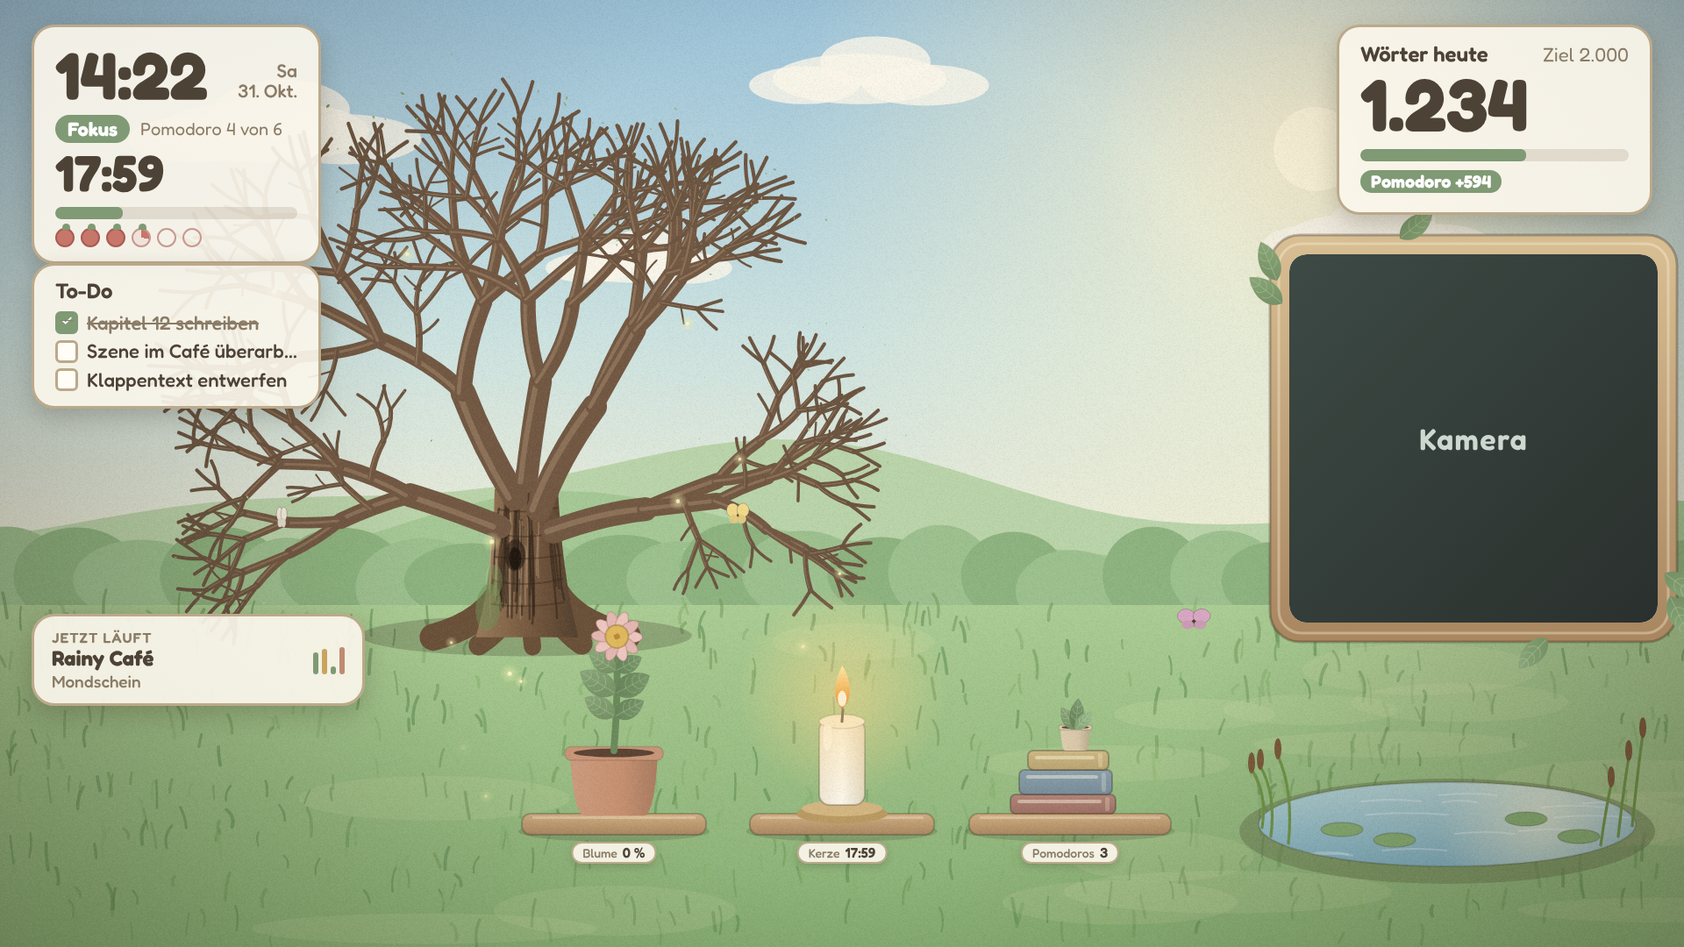
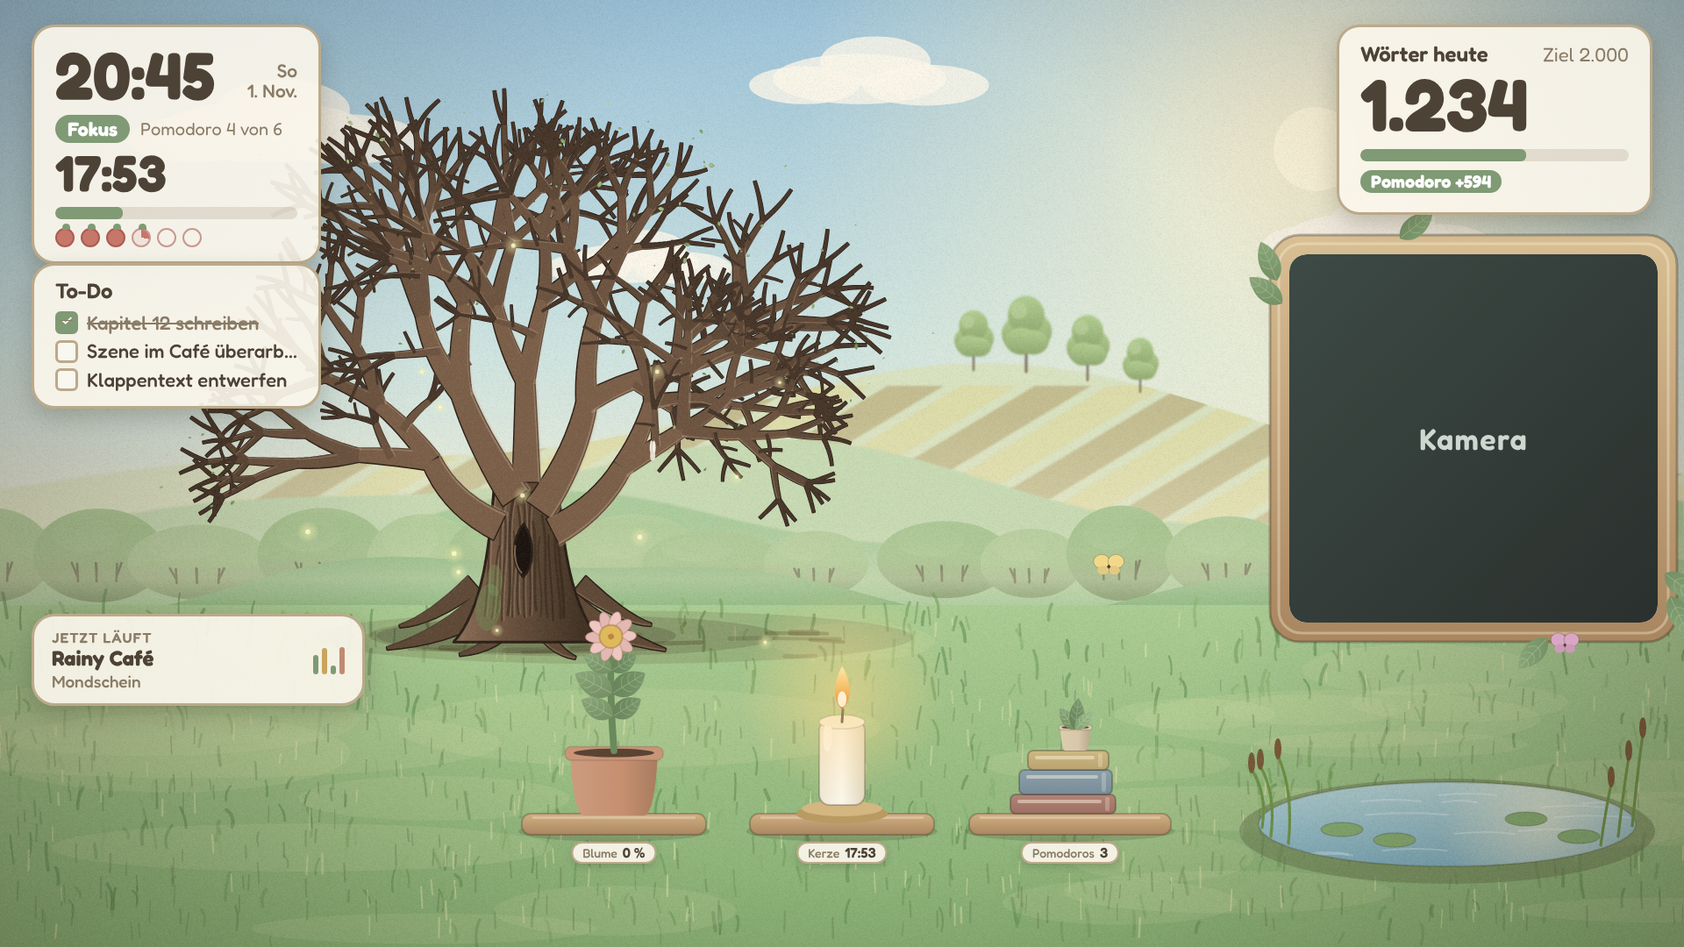
v1.6.0: Landschaft und Baum im illustrierten Stil nach Vorlage
Konturen, große Laubbüschel, gepflügte Felder, Büsche, Dunst, Gras.

Claude-Session: https://claude.ai/code/session_01DH9G6EkHwgJhCD2sJyVDDF

diff --git a/docs/vorschau.html b/docs/vorschau.html
@@ -889,6 +889,34 @@ const PAL = {
   winter: { hills: ['#c9d2c8', '#b9c3bb', '#a8b3ac'], far: ['#8a9a90', '#7b8c84'], ground: ['#a3a891', '#8c917b'], blades: ['#9aa07f', '#8a9070', '#a8ad90'], tree: ['#e8eef2', '#dde5ea', '#f2f5f7', '#cfd9df'] },
 };
 
+// ---- Hügel, Felder, Büsche und ferne Bäume (Stil: weich, warm, mit Dunst in der Ferne)
+const hillShape = (y, seed, wave, amp) => (k) => { const r = rng(seed); const ph = [r() * 6, r() * 6]; k.moveTo(0, H); k.lineTo(0, y); for (let x = 0; x <= W; x += 40) k.lineTo(x, y + Math.sin(x / wave + ph[0]) * amp + Math.sin(x / (wave * 0.45) + ph[1]) * amp * 0.4); k.lineTo(W, H); k.closePath(); };
+const hillYAt = (y, seed, wave, amp) => { const r = rng(seed); const ph = [r() * 6, r() * 6]; return (x) => y + Math.sin(x / wave + ph[0]) * amp + Math.sin(x / (wave * 0.45) + ph[1]) * amp * 0.4; };
+// Gepflügte Felder: schräge Streifen in zwei warmen Tönen, in den Hügel geschnitten
+function felder(c, P, shape, dunst) {
+  c.save(); c.beginPath(); shape(c); c.clip();
+  const cols = [mixc(P.hills[0], '#f6d890', 0.5), mixc(P.hills[0], '#b07a40', 0.45)];
+  for (let i = -3; i < 22; i += 1) { const x0 = 760 + i * 84; c.fillStyle = alpha(mixc(cols[i & 1], dunst, 0.15), 0.85); c.beginPath(); c.moveTo(x0, 440); c.lineTo(x0 + 64, 440); c.lineTo(x0 + 64 - 300, 620); c.lineTo(x0 - 300, 620); c.closePath(); c.fill(); }
+  c.restore();
+}
+// Runder Busch: oben hell, unten dunkel, im unteren Teil sieht man dünne Zweige
+function busch(c, x, y, rx, ry, col, snow, season) {
+  const dark = shade(col, -0.2), light = shade(col, 0.16);
+  ell(c, x, y - ry * 0.5, rx, ry, lg(c, 0, y - ry * 1.5, 0, y + ry * 0.4, [[0, light], [0.5, col], [1, dark]]));
+  ell(c, x - rx * 0.22, y - ry * 0.95, rx * 0.5, ry * 0.38, alpha(light, 0.45));
+  c.strokeStyle = alpha('#3d2b20', 0.5); c.lineWidth = 2.6; c.lineCap = 'round';
+  for (const dx of [-0.32, -0.04, 0.26]) { c.beginPath(); c.moveTo(x + dx * rx, y + ry * 0.05); c.lineTo(x + dx * rx * 1.04, y - ry * 0.32); c.moveTo(x + dx * rx * 1.03, y - ry * 0.06); c.lineTo(x + dx * rx * 1.3, y - ry * 0.34); c.stroke(); }
+  if (snow > 0.05 && season === 'winter') ell(c, x, y - ry * 1.3, rx * 0.8, ry * 0.26, alpha('#ffffff', 0.9 * snow));
+}
+// Ferner Baum: runde Krone mit hellem Licht oben, dunkler Stamm mit Gabel
+function fernerBaum(c, x, y, s, col, kahl) {
+  c.strokeStyle = alpha('#4a3526', 0.7); c.lineWidth = 4 * s; c.lineCap = 'round';
+  c.beginPath(); c.moveTo(x, y); c.lineTo(x, y - 52 * s); c.moveTo(x, y - 30 * s); c.lineTo(x - 14 * s, y - 52 * s); c.moveTo(x, y - 34 * s); c.lineTo(x + 14 * s, y - 56 * s); c.stroke();
+  if (kahl) return;
+  for (const [dx, dy, rx2, ry2] of [[-16, -62, 24, 26], [16, -66, 26, 28], [0, -92, 30, 32], [-8, -50, 26, 22], [12, -48, 24, 20]]) ell(c, x + dx * s, y + dy * s, rx2 * s, ry2 * s, lg(c, 0, y + (dy - ry2) * s, 0, y + (dy + ry2) * s, [[0, shade(col, 0.14)], [1, shade(col, -0.18)]]));
+  ell(c, x - 12 * s, y - 100 * s, 14 * s, 14 * s, alpha(shade(col, 0.3), 0.55));
+}
+
 // ---- Himmel, Hügel, Boden (ändern sich nur mit Jahreszeit, Tageszeit und Schnee)
 function paintBackground(c, season, zeit, snow) {
   const S = SKY[zeit], P = PAL[season];
@@ -905,10 +933,24 @@ function paintBackground(c, season, zeit, snow) {
   const cl = (x, y, s) => { for (const [dx, dy, rx, ry] of [[0, 0, 110, 32], [-70, 8, 70, 24], [84, 8, 80, 26], [20, -22, 70, 32]]) ell(c, x + dx * s, y + dy * s, rx * s, ry * s, alpha(S.cloud, zeit === 'abend' ? 0.55 : 0.8)); };
   cl(300, 150, 1.1); cl(980, 90, 0.9); cl(1560, 270, 0.85); cl(720, 300, 0.7);
   const snowC = (h) => (snow ? mixc(h, '#f4f7fa', snow * 0.88) : h);
-  const hillPath = (y, seed, wave, amp, col) => { const r = rng(seed); const ph = [r() * 6, r() * 6]; path(c, (k) => { k.moveTo(0, H); k.lineTo(0, y); for (let x = 0; x <= W; x += 40) k.lineTo(x, y + Math.sin(x / wave + ph[0]) * amp + Math.sin(x / (wave * 0.45) + ph[1]) * amp * 0.4); k.lineTo(W, H); k.closePath(); }, col); };
-  hillPath(560, 2, 250, 44, snowC(P.hills[0])); hillPath(612, 5, 210, 38, snowC(P.hills[1])); hillPath(664, 8, 180, 30, snowC(P.hills[2]));
+  const hillPath = (y, seed, wave, amp, col) => path(c, hillShape(y, seed, wave, amp), col);
+  const dunst = mixc(S.hor, '#fff0dc', 0.4); // Dunst in der Ferne: Dinge dort sind heller, blasser und weich
+  const hinten = (col, k) => snowC(mixc(col, dunst, k));
+  c.save(); c.filter = 'blur(1.2px)';
+  const ferne = hillShape(500, 14, 330, 62), ferneY = hillYAt(500, 14, 330, 62);
+  path(c, ferne, hinten(P.hills[0], 0.5));
+  if (season !== 'winter') felder(c, P, ferne, dunst);
+  for (const [bx, sc2] of [[1110, 0.55], [1170, 0.7], [1240, 0.6], [1300, 0.5], [1560, 0.7], [1640, 0.85], [1720, 0.7], [1810, 0.8]]) fernerBaum(c, bx, ferneY(bx) + 8, sc2, hinten(season === 'herbst' ? P.tree[1] : P.tree[0], 0.12), season === 'winter');
+  c.restore();
+  c.fillStyle = lg(c, 0, 470, 0, 640, [[0, alpha(dunst, 0)], [1, alpha(dunst, 0.34)]]); c.fillRect(0, 470, W, 170); // Dunstband über der Ferne
+  c.save(); c.filter = 'blur(0.8px)';
+  hillPath(560, 2, 250, 44, hinten(P.hills[0], 0.22)); hillPath(612, 5, 210, 38, hinten(P.hills[1], 0.1));
+  c.restore();
+  // Reihe runder Büsche mit Zweigen
   const r2 = rng(33);
-  for (let i = 0; i < 26; i += 1) ell(c, i * 76 + r2() * 30, 650 + r2() * 24, 56 + r2() * 28, 40 + r2() * 18, snowC(P.far[i % 2]));
+  for (let i = 0; i < 17; i += 1) busch(c, i * 118 + r2() * 40 - 20, 656 + r2() * 14, 56 + r2() * 34, 36 + r2() * 20, hinten(mixc(P.far[i % 2], P.tree[1], 0.32), 0.08), snow, season);
+  hillPath(664, 8, 180, 30, snowC(P.hills[2]));
+  c.fillStyle = lg(c, 0, 600, 0, 700, [[0, alpha(dunst, 0)], [0.6, alpha(dunst, 0.3)], [1, alpha(dunst, 0)]]); c.fillRect(0, 600, W, 100); // Dunst zwischen Büschen und Wiese
   const g0 = season === 'winter' ? mixc(P.ground[0], '#f1f5f8', snow * 0.96) : P.ground[0];
   const g1 = season === 'winter' ? mixc(P.ground[1], '#dfe7ee', snow * 0.96) : P.ground[1];
   c.fillStyle = lg(c, 0, 690, 0, H, [[0, g0], [1, g1]]); c.fillRect(0, 690, W, H - 690);
@@ -916,6 +958,16 @@ function paintBackground(c, season, zeit, snow) {
   if (strokes > 0) grassStrokes(c, 0, 700, W, H, strokes, 17, P.blades);
   const r3 = rng(41);
   for (let i = 0; i < 18; i += 1) ell(c, r3() * W, 720 + r3() * 340, 90 + r3() * 120, 14 + r3() * 18, alpha(season === 'winter' ? '#ffffff' : '#fff3c8', 0.1));
+  if (season !== 'winter') {
+    // große, sanfte helle Flecken wie gemähte Stellen, und viele kurze Grashalme (hell und dunkel) als Strichstruktur
+    for (let i = 0; i < 7; i += 1) ell(c, 150 + r3() * (W - 300), 760 + r3() * 280, 160 + r3() * 220, 22 + r3() * 26, alpha(mixc(g0, '#fff0c0', 0.55), 0.17));
+    c.lineCap = 'round';
+    for (let i = 0; i < 520; i += 1) {
+      const gx = r3() * W, gy = 710 + Math.pow(r3(), 0.8) * 360, gh = 6 + r3() * 12 + (gy - 700) * 0.02, hell = r3() < 0.4;
+      c.strokeStyle = alpha(hell ? mixc(g0, '#fff2b8', 0.7) : mixc(g1, '#2e2012', 0.45), hell ? 0.45 : 0.3); c.lineWidth = 1.3 + r3() * 1.2;
+      c.beginPath(); c.moveTo(gx, gy); c.lineTo(gx + (r3() - 0.5) * 3, gy - gh); c.stroke();
+    }
+  }
   paintTeich(c, season, zeit, S, snow);
 }
 
@@ -1058,7 +1110,7 @@ const DRAW = { daisy, tulip, bell, sunflower, lavender, poppy, cornflower, aster
 const MIX = {
   fruehling: ['tuft', 'tuft', 'daisy', 'daisy', 'tulip', 'tulip', 'bell', 'tuft', 'daisy'],
   sommer: ['tuft', 'sunflower', 'sunflower', 'lavender', 'lavender', 'poppy', 'cornflower', 'tuft', 'poppy'],
-  herbst: ['tuft', 'aster', 'aster', 'pumpkin', 'pilze', 'pilze', 'pilze', 'frond', 'pilze', 'aster', 'pilze'],
+  herbst: ['tuft', 'tuft', 'aster', 'aster', 'pumpkin', 'pilze', 'frond', 'tuft', 'aster', 'pilze', 'tuft'],
   winter: ['shrub', 'tuft', 'shrub', 'tuft', 'tuft'],
 };
 const slotCache = new Map();
@@ -1088,9 +1140,9 @@ function treeModel(seed) {
   if (treeModels.has(seed)) return treeModels.get(seed);
   const r = rng(seed), segs = [], tips = [];
   const grow = (x, y, ang, len, w, depth) => {
-    const bend = (r() - 0.5) * 0.5, a2 = ang + bend;
+    const bend = depth === 1 ? (ang < -0.7 ? 0.36 : ang > 0.7 ? -0.36 : (r() - 0.5) * 0.3) * (0.75 + r() * 0.35) : (r() - 0.5) * 0.5, a2 = ang + bend;
     const x1 = x + Math.sin(a2) * len, y1 = y - Math.cos(a2) * len;
-    const cx = x + Math.sin(ang + bend * 0.3) * len * 0.5 + (r() - 0.5) * len * 0.18, cy = y - Math.cos(ang + bend * 0.3) * len * 0.5;
+    const cx = x + Math.sin(ang + bend * (depth === 1 ? 0.1 : 0.3)) * len * 0.5 + (r() - 0.5) * len * 0.18, cy = y - Math.cos(ang + bend * (depth === 1 ? 0.1 : 0.3)) * len * 0.5;
     const w1 = w * 0.68;
     segs.push([x, y, cx, cy, x1, y1, w, w1, depth]);
     if (depth >= 6) { tips.push([x1, y1, a2]); return; }
@@ -1106,15 +1158,15 @@ function treeModel(seed) {
   const xs = tips.map((q) => q[0]), ys = tips.map((q) => q[1]);
   const minX = Math.min(...xs), maxX = Math.max(...xs), minY = Math.min(...ys), maxY = Math.max(...ys);
   const ccx = (minX + maxX) / 2, ccy = minY + (maxY - minY) * 0.36, crx = (maxX - minX) * 0.43, cry = (maxY - minY) * 0.4;
-  for (let i = 0; i < 1300; i += 1) {
+  for (let i = 0; i < 760; i += 1) {
     const a = r() * TAU, rad = Math.sqrt(r()), x = ccx + Math.cos(a) * crx * rad, y = ccy + Math.sin(a) * cry * rad;
     if (y > -190) continue; // der Stammansatz und die untersten Äste bleiben sichtbar
-    leaves.push({ x, y, size: 17 + r() * 11, rot: r() * TAU, tone: r(), th: r(), lobed: r() < 0.75, acorn: false, katze: false });
+    leaves.push({ x, y, size: 24 + r() * 13, rot: r() * TAU, tone: r(), th: r(), lobed: r() < 0.3, acorn: false, katze: false });
   }
   for (const [tx, ty, ang] of tips) {
-    for (let i = 0; i < 15; i += 1) {
+    for (let i = 0; i < 8; i += 1) {
       const rad = 10 + r() * 50, a = r() * TAU;
-      leaves.push({ x: tx + Math.cos(a) * rad * 1.2 + Math.sin(ang) * 16, y: ty + Math.sin(a) * rad * 0.9 - 10, size: 17 + r() * 11, rot: r() * TAU, tone: r(), th: r(), lobed: r() < 0.75, acorn: r() < 0.05, katze: r() < 0.08 });
+      leaves.push({ x: tx + Math.cos(a) * rad * 1.2 + Math.sin(ang) * 16, y: ty + Math.sin(a) * rad * 0.9 - 10, size: 24 + r() * 13, rot: r() * TAU, tone: r(), th: r(), lobed: r() < 0.3, acorn: r() < 0.05, katze: r() < 0.08 });
     }
   }
   leaves.sort((a, b) => a.y - b.y);
@@ -1135,65 +1187,81 @@ function eichenblatt(c, x, y, size, rot, col) {
   c.strokeStyle = alpha(shade(col, 0.3), 0.5); c.lineWidth = 1.2; c.beginPath(); c.moveTo(0, -size * 0.04); c.lineTo(0, -size * 0.9); c.stroke();
   c.restore();
 }
+// Ein verjüngtes, gebogenes Band (Ast oder Wurzel) von Breite w0 nach w1: liefert linke und rechte Randpunkte
+function bandPunkte(x0, y0, cx, cy, x1, y1, w0, w1, N = 9) {
+  const L = [], R = [];
+  for (let i = 0; i <= N; i += 1) {
+    const u = i / N, bx = (1 - u) * (1 - u) * x0 + 2 * (1 - u) * u * cx + u * u * x1, by = (1 - u) * (1 - u) * y0 + 2 * (1 - u) * u * cy + u * u * y1;
+    let tx = 2 * (1 - u) * (cx - x0) + 2 * u * (x1 - cx), ty = 2 * (1 - u) * (cy - y0) + 2 * u * (y1 - cy); const tl = Math.hypot(tx, ty) || 1; tx /= tl; ty /= tl;
+    const hw = (w0 + (w1 - w0) * u) / 2;
+    L.push([bx - ty * hw, by + tx * hw]); R.push([bx + ty * hw, by - tx * hw]);
+  }
+  return { L, R };
+}
+const bandPfad = ({ L, R }) => (k) => { k.moveTo(L[0][0], L[0][1]); for (const q of L) k.lineTo(q[0], q[1]); for (const q of [...R].reverse()) k.lineTo(q[0], q[1]); k.closePath(); };
+
 function drawTree(c, x, y, s, { leafAmt, tones, season, p, snow = 0 }) {
   const { segs, tips, leaves, crown } = treeModel(9);
+  const TINTE = '#2b2018'; // dünne dunkle Konturlinie wie in einer Illustration
   c.save(); c.translate(x, y); c.scale(s, s);
-  // weicher Schatten am Boden: breit nach rechts, wie von der Sonne links oben
-  ell(c, 110, 12, 380, 34, alpha('#4a3018', 0.14)); ell(c, 60, 10, 260, 26, alpha('#3a2410', 0.16)); ell(c, 0, 10, 190, 22, alpha('#2b2118', 0.22));
+  // weicher Schatten am Boden (von links oben beleuchtet, daher nach rechts) mit ein paar Pinselstrichen am Rand
+  ell(c, 110, 12, 380, 34, alpha('#4a3018', 0.14)); ell(c, 60, 10, 260, 26, alpha('#3a2410', 0.16)); ell(c, 0, 10, 190, 22, alpha('#2b2118', 0.2));
   c.lineCap = 'round'; c.lineJoin = 'round';
-  // Wurzelanläufe
-  for (const [dx, wx, wy, w] of [[-44, -118, 12, 34], [-14, -60, 22, 26], [30, 70, 20, 28], [50, 128, 10, 34], [4, 8, 24, 22]]) { c.strokeStyle = '#6a5038'; c.lineWidth = w; c.beginPath(); c.moveTo(dx * 0.6, -60); c.quadraticCurveTo(dx, -8, wx, wy); c.stroke(); }
-  // mächtiger Stamm: breiter Fuß, links hell (Sonne), rechts dunkel
-  path(c, (k) => { k.moveTo(-70, 14); k.bezierCurveTo(-48, -40, -44, -110, -41, -178); k.lineTo(41, -178); k.bezierCurveTo(45, -110, 52, -40, 72, 14); k.closePath(); }, lg(c, -70, 0, 72, 0, [[0, '#7d6552'], [0.3, '#63503f'], [0.62, '#4a3a2f'], [1, '#31271f']]));
+  const rs = rng(5);
+  for (let i = 0; i < 16; i += 1) { const sx = -150 + rs() * 520, sy = 4 + rs() * 34; c.strokeStyle = alpha('#3a2410', 0.16 + rs() * 0.1); c.lineWidth = 3 + rs() * 5; c.beginPath(); c.moveTo(sx, sy); c.lineTo(sx + 30 + rs() * 60, sy + (rs() - 0.5) * 6); c.stroke(); }
+  // Wurzeln: verjüngte Bänder mit Kontur, vom Stamm weg über den Boden
+  const wurzeln = [[-50, -30, -104, 12, -176, 26, 38], [-18, -14, -36, 24, -84, 34, 26], [14, -14, 30, 28, 62, 38, 24], [50, -30, 108, 10, 176, 28, 38], [-66, -56, -120, -10, -160, -2, 24], [68, -56, 124, -10, 158, -4, 24]];
+  const wBand = wurzeln.map(([x0, y0, cx, cy, x1, y1, w]) => bandPunkte(x0, y0, cx, cy, x1, y1, w, 3, 8));
+  for (const b of wBand) path(c, bandPfad(b), TINTE, TINTE, 3.4);
+  for (const b of wBand) { path(c, bandPfad(b), '#5f4937'); c.strokeStyle = alpha('#d6bb9c', 0.22); c.lineWidth = 2; c.beginPath(); b.L.forEach((q, i) => (i ? c.lineTo(q[0], q[1] - 1) : c.moveTo(q[0], q[1] - 1))); c.stroke(); }
+  // mächtiger Stamm: Kontur, links hell (Sonne), rechts dunkel
+  path(c, (k) => { k.moveTo(-92, 18); k.bezierCurveTo(-54, -24, -46, -110, -41, -176); k.quadraticCurveTo(0, -200, 41, -176); k.bezierCurveTo(46, -110, 56, -24, 96, 18); k.closePath(); }, lg(c, -92, 0, 96, 0, [[0, '#8c6f59'], [0.32, '#6f5541'], [0.64, '#53412f'], [1, '#372a1f']]), TINTE, 3.4);
   const rb = rng(3);
-  // Rindenfurchen: lange, leicht geschwungene Linien entlang des Stammes (dunkel) und Lichtkanten (hell, links)
+  // Rindenfurchen: lange, leicht geschwungene Linien (dunkel) und Lichtkanten (hell, links)
   for (let i = 0; i < 15; i += 1) {
-    const u = (i + rb() * 0.6) / 15, px = -56 + u * 112, y0 = -2 - rb() * 24, len = 90 + rb() * 70, sway = (rb() - 0.5) * 14, w = 1.8 + rb() * 2.2;
-    c.strokeStyle = alpha('#2a1f18', 0.32 + rb() * 0.22); c.lineWidth = w; c.beginPath(); c.moveTo(px * 0.96, y0); c.bezierCurveTo(px * 0.9 + sway, y0 - len * 0.35, px * 0.84 - sway, y0 - len * 0.7, px * 0.78 + sway * 0.4, y0 - len); c.stroke();
-    if (u < 0.55) { c.strokeStyle = alpha('#d9c0a2', 0.22); c.lineWidth = 1.6; c.beginPath(); c.moveTo(px * 0.96 + 3, y0); c.bezierCurveTo(px * 0.9 + sway + 3, y0 - len * 0.35, px * 0.84 - sway + 3, y0 - len * 0.7, px * 0.78 + sway * 0.4 + 3, y0 - len); c.stroke(); }
+    const u = (i + rb() * 0.6) / 15, px = -56 + u * 112, y0 = -2 - rb() * 24, len = 90 + rb() * 70, sway = (rb() - 0.5) * 14, w = 1.6 + rb() * 2;
+    c.strokeStyle = alpha(TINTE, 0.34 + rb() * 0.22); c.lineWidth = w; c.beginPath(); c.moveTo(px * 0.96, y0); c.bezierCurveTo(px * 0.9 + sway, y0 - len * 0.35, px * 0.84 - sway, y0 - len * 0.7, px * 0.78 + sway * 0.4, y0 - len); c.stroke();
+    if (u < 0.55) { c.strokeStyle = alpha('#dcc3a4', 0.22); c.lineWidth = 1.6; c.beginPath(); c.moveTo(px * 0.96 + 3, y0); c.bezierCurveTo(px * 0.9 + sway + 3, y0 - len * 0.35, px * 0.84 - sway + 3, y0 - len * 0.7, px * 0.78 + sway * 0.4 + 3, y0 - len); c.stroke(); }
   }
-  // Astloch: klein und senkrecht, mit hellem Rand oben links
-  ell(c, -4, -92, 9.5, 17, '#241a14'); ell(c, -4, -88, 6, 12, '#120c09'); c.strokeStyle = alpha('#c9ad8c', 0.5); c.lineWidth = 2; c.beginPath(); c.ellipse(-4, -92, 10.5, 18, 0, Math.PI * 0.55, Math.PI * 1.3); c.stroke();
-  if (season !== 'winter') { ell(c, -48, -26, 16, 30, alpha('#6f8f55', 0.5), null, 0, 0.1); ell(c, -40, -60, 10, 20, alpha('#7f9d62', 0.4)); } // Moos auf der Wetterseite
+  // Astloch: länglich wie ein Tropfen, dunkel mit Kontur und hellem Rand
+  const loch = (k) => { k.moveTo(-3, -132); k.bezierCurveTo(-20, -112, -18, -80, -4, -64); k.bezierCurveTo(10, -78, 12, -108, -3, -132); k.closePath(); };
+  path(c, loch, '#1c140f', TINTE, 3); c.strokeStyle = alpha('#c9ad8c', 0.5); c.lineWidth = 2; c.beginPath(); c.moveTo(-14, -104); c.bezierCurveTo(-16, -90, -12, -76, -6, -70); c.stroke();
+  if (season !== 'winter') { ell(c, -48, -26, 16, 30, alpha('#6f8f55', 0.45), null, 0, 0.1); ell(c, -40, -60, 10, 20, alpha('#7f9d62', 0.35)); } // Moos auf der Wetterseite
   if (snow > 0.05) for (const [dx, dy, w] of [[-38, 8, 40], [42, 10, 44]]) ell(c, dx, dy, w, 8 * snow + 2, alpha('#ffffff', 0.9 * snow));
-  // Äste: weich verjüngt (jedes Stück ist ein Band, das von w0 zu w1 schmaler wird), links hell
-  for (const [x0, y0, cx, cy, x1, y1, w0, w1, d] of segs) {
-    const L = [], R = [], N = 9;
-    for (let i = 0; i <= N; i += 1) {
-      const u = i / N, bx = (1 - u) * (1 - u) * x0 + 2 * (1 - u) * u * cx + u * u * x1, by = (1 - u) * (1 - u) * y0 + 2 * (1 - u) * u * cy + u * u * y1;
-      let tx = 2 * (1 - u) * (cx - x0) + 2 * u * (x1 - cx), ty = 2 * (1 - u) * (cy - y0) + 2 * u * (y1 - cy); const tl = Math.hypot(tx, ty) || 1; tx /= tl; ty /= tl;
-      const hw = (w0 + (w1 - w0) * u) / 2;
-      L.push([bx - ty * hw, by + tx * hw]); R.push([bx + ty * hw, by - tx * hw]);
-    }
-    path(c, (k) => { k.moveTo(L[0][0], L[0][1]); for (const q of L) k.lineTo(q[0], q[1]); for (const q of [...R].reverse()) k.lineTo(q[0], q[1]); k.closePath(); }, d > 4 ? '#5d4a3b' : d > 2 ? '#654f40' : '#6d5645');
-    if (w0 > 6) { c.strokeStyle = alpha('#c9ad8c', 0.3); c.lineWidth = Math.max(1, w0 * 0.16); c.beginPath(); L.forEach((q, i) => (i ? c.lineTo(q[0] + 1, q[1]) : c.moveTo(q[0] + 1, q[1]))); c.stroke(); }
-    if (snow > 0.05 && w0 > 3) { c.strokeStyle = alpha('#ffffff', 0.92 * snow); c.lineWidth = Math.max(2, w0 * 0.34); c.beginPath(); c.moveTo(x0 - w0 * 0.28, y0 - w0 * 0.14); c.quadraticCurveTo(cx - w0 * 0.28, cy - w0 * 0.14, x1 - w1 * 0.28, y1 - w1 * 0.14); c.stroke(); }
+  // Äste: erst alle Konturen, dann alle Füllungen (so verschmelzen die Gabelungen ohne Naht); dünne Zweige fast schwarz
+  const aBand = segs.map(([x0, y0, cx, cy, x1, y1, w0, w1, d]) => ({ b: bandPunkte(x0, y0, cx, cy, x1, y1, w0, w1), d, w0, w1, x0, y0, cx, cy, x1, y1 }));
+  for (const a of aBand) path(c, bandPfad(a.b), TINTE, TINTE, a.w0 > 14 ? 3.2 : a.w0 > 7 ? 2.3 : 1.5); // dünne Zweige bekommen eine dünnere Kontur
+  for (const a of aBand) {
+    path(c, bandPfad(a.b), a.w1 < 5 ? '#47362a' : a.d > 4 ? '#5e4837' : a.d > 2 ? '#6d5441' : '#7b5f49');
+    if (a.w0 > 6) { c.strokeStyle = alpha('#d6bb9c', 0.3); c.lineWidth = Math.max(1, a.w0 * 0.16); c.beginPath(); a.b.L.forEach((q, i) => (i ? c.lineTo(q[0] + 1, q[1]) : c.moveTo(q[0] + 1, q[1]))); c.stroke(); }
+    if (snow > 0.05 && a.w0 > 3) { c.strokeStyle = alpha('#ffffff', 0.92 * snow); c.lineWidth = Math.max(2, a.w0 * 0.34); c.beginPath(); c.moveTo(a.x0 - a.w0 * 0.28, a.y0 - a.w0 * 0.14); c.quadraticCurveTo(a.cx - a.w0 * 0.28, a.cy - a.w0 * 0.14, a.x1 - a.w1 * 0.28, a.y1 - a.w1 * 0.14); c.stroke(); }
   }
   if (leafAmt > 0.02) {
-    // Licht kommt von links oben: Laub links/oben ist hell, rechts/unten und tief im Inneren dunkel.
-    const helligkeit = (lf) => {
+    // Licht von links oben: Laub links/oben ist hell, rechts/unten und tief im Inneren dunkel. Benachbarte Blätter bekommen ähnliche
+    // Töne (Büschel), das wirkt gemalter als wild gemischte Farben.
+    const kontext = (lf) => {
       const nx = (lf.x - crown.x) / crown.rx, ny = (lf.y - crown.y) / crown.ry, tiefe = clamp01(1 - Math.hypot(nx, ny));
-      return { lit: clamp01(0.5 - nx * 0.38 - ny * 0.34), tiefe };
+      return { lit: clamp01(0.5 - nx * 0.38 - ny * 0.34), tiefe, buschel: 0.5 + 0.5 * Math.sin(lf.x * 0.034 + 1.3) * Math.cos(lf.y * 0.041 + 0.7) };
     };
     const farbe = (lf) => {
-      const { lit, tiefe } = helligkeit(lf);
-      const ti = season === 'herbst' ? Math.min(tones.length - 1, Math.floor(clamp01(lf.tone * 0.5 + lit * 0.38 + 0.08 + (p - 0.4) * 0.2) * tones.length)) : Math.floor(lf.tone * tones.length) % tones.length;
-      return shade(tones[ti], -0.3 + lit * 0.5 - tiefe * 0.12 + (lf.tone - 0.5) * 0.1);
+      const { lit, tiefe, buschel } = kontext(lf);
+      const ti = season === 'herbst' ? Math.min(tones.length - 1, Math.floor(clamp01(buschel * 0.34 + lit * 0.34 + lf.tone * 0.2 + 0.06 + (p - 0.4) * 0.2) * tones.length)) : Math.floor(clamp01(buschel * 0.6 + lf.tone * 0.4) * tones.length) % tones.length;
+      return shade(tones[ti], -0.22 + lit * 0.4 - tiefe * 0.1 + (lf.tone - 0.5) * 0.06);
     };
     const kk = smooth(clamp01((leafAmt - 0.06) / 0.5));
     // 1. Ebene: dunkle, größere Blätter im Inneren geben Tiefe, ohne dass der Himmel durchscheint
     for (const lf of leaves) {
       const k = smooth(clamp01((leafAmt - lf.th * 0.92) / 0.14));
-      if (k <= 0.02 || helligkeit(lf).tiefe < 0.25) continue;
-      eichenblatt(c, lf.x, lf.y, lf.size * 1.35 * k, lf.rot, shade(tones[0], -0.42));
+      if (k <= 0.02 || kontext(lf).tiefe < 0.38) continue;
+      leaf(c, lf.x, lf.y, lf.size * 1.25 * k, lf.size * 0.52 * k, lf.rot, shade(tones[0], -0.4), { veins: false });
     }
-    for (const [tx, ty] of tips) if (kk > 0.02) ell(c, tx, ty - 8, 54 * kk, 44 * kk, alpha(shade(tones[2], -0.28), 0.18 * kk));
-    // 2. Ebene: die Blätter selbst
+    for (const [tx, ty] of tips) if (kk > 0.02) ell(c, tx, ty - 8, 54 * kk, 44 * kk, alpha(shade(tones[2], -0.28), 0.16 * kk));
+    // 2. Ebene: die Blätter selbst (spitze Ovale ohne Umriss, wenige gelappte Eichenblätter)
     for (const lf of leaves) {
       const k = smooth(clamp01((leafAmt - lf.th * 0.92) / 0.14));
       if (k <= 0.02) continue;
       const col = farbe(lf);
-      if (lf.lobed) eichenblatt(c, lf.x, lf.y, lf.size * k, lf.rot, col); else leaf(c, lf.x, lf.y, lf.size * 1.3 * k, lf.size * 0.5 * k, lf.rot, col, { veins: false });
+      if (lf.lobed) eichenblatt(c, lf.x, lf.y, lf.size * 1.05 * k, lf.rot, col); else leaf(c, lf.x, lf.y, lf.size * 1.25 * k, lf.size * 0.5 * k, lf.rot, col, { veins: false });
       if (season === 'fruehling' && lf.katze && k > 0.5) { c.strokeStyle = '#c9cf7e'; c.lineWidth = 3.4; c.lineCap = 'round'; c.beginPath(); c.moveTo(lf.x, lf.y); c.quadraticCurveTo(lf.x + 3, lf.y + 10, lf.x + 1, lf.y + 20); c.stroke(); }
       if (lf.acorn && season === 'sommer' && p > 0.25 + lf.th * 0.5) { ell(c, lf.x + 3, lf.y + 14, 4.4, 6.4, '#9a7a4a', alpha('#4a3520', 0.5), 1); path(c, (kk) => { kk.moveTo(lf.x - 2, lf.y + 11); kk.quadraticCurveTo(lf.x + 3, lf.y + 6, lf.x + 8, lf.y + 11); kk.closePath(); }, '#6a5238'); }
     }
@@ -1275,8 +1343,8 @@ function paintGrowth(c, season, zeit, p) {
   }
   if (season === 'herbst') { // zusätzliche Pilzgruppen am Baum, an der Wiese und im Gras
     const r = rng(404);
-    for (let i = 0; i < 22; i += 1) {
-      const nearTree = i < 8, nearPav = i >= 8 && i < 16; // nearPav: Pilzring auf der freien Wiese rechts vom Baum
+    for (let i = 0; i < 10; i += 1) {
+      const nearTree = i < 4, nearPav = i >= 4 && i < 7; // nearPav: Pilzring auf der freien Wiese rechts vom Baum
       const x = nearTree ? BAUM.x - 170 + r() * 340 : nearPav ? 1250 - 230 + r() * 460 : 40 + r() * (W - 80);
       const y = nearTree ? 730 + r() * 40 : nearPav ? 960 + r() * 90 : 720 + r() * 330;
       const th = 0.06 + r() * 0.6, g = clamp01((p - th) / 0.16);
@@ -1345,7 +1413,6 @@ class Wachstum {
   // Nur das, was sich bewegt (Nebel, Schmetterlinge, Laub, Schnee, Glühwürmchen); kommt auf die Ebene über der Basis.
   animiere(c, t) {
     const { season, zeit, pq } = this.aktuell;
-    if (zeit === 'morgen') for (let i = 0; i < 4; i += 1) ell(c, 300 + i * 480 + Math.sin(t / 5000 + i) * 60, 700 + (i % 2) * 24, 380, 36, alpha('#fff4ee', 0.2));
     this.living(c, season, zeit, pq, t);
   }
 
